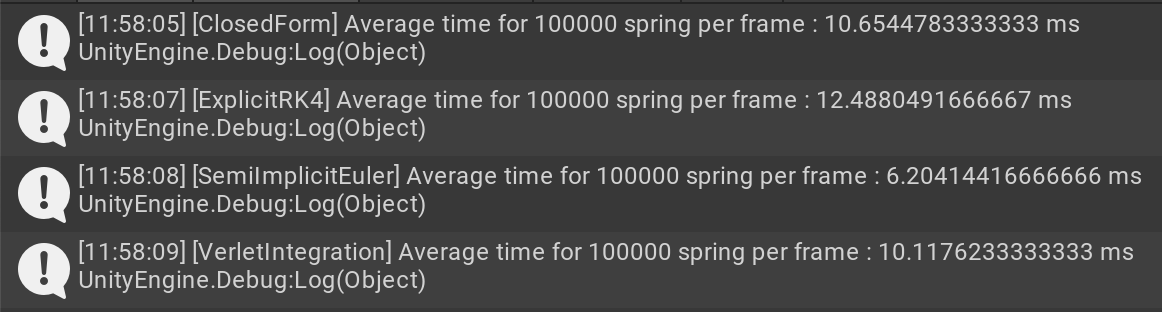
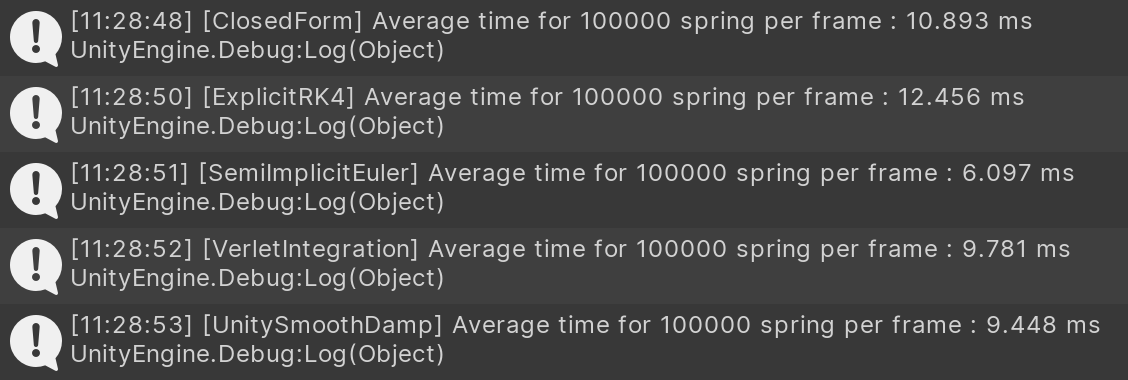
Add UnitySmoothDamp for comparison

Changed region(s): [[0.0, 0.0288, 0.9929, 0.9808]]

diff --git a/Tests/Editor/PerformanceTest.cs b/Tests/Editor/PerformanceTest.cs
@@ -1,5 +1,6 @@
 using NUnit.Framework;
 using System.Diagnostics;
+using UnityEngine;
 using Debug = UnityEngine.Debug;
 
 namespace UnitySpring.Tests
@@ -9,20 +10,24 @@ namespace UnitySpring.Tests
         const int Count = 100000;
 
         [Test]
-        public static void ClosedForm()
+        public static void _ClosedForm()
             => Benchmark(CreateSprings<ClosedForm.Spring>(), "ClosedForm");
 
         [Test]
-        public static void SemiImplicitEuler()
+        public static void _SemiImplicitEuler()
             => Benchmark(CreateSprings<SemiImplicitEuler.Spring>(), "SemiImplicitEuler");
 
         [Test]
-        public static void ExplicitRK4()
+        public static void _ExplicitRK4()
             => Benchmark(CreateSprings<ExplicitRK4.Spring>(), "ExplicitRK4");
 
         [Test]
-        public static void VerletIntegration()
+        public static void _VerletIntegration()
             => Benchmark(CreateSprings<VerletIntegration.Spring>(), "VerletIntegration");
+
+        [Test]
+        public static void UnitySmoothDamp()
+            => Benchmark(CreateSprings<UnitySmoothDamp>(), "UnitySmoothDamp");
 
         static void Benchmark(SpringBase[] springs, string name)
         {
@@ -36,7 +41,7 @@ namespace UnitySpring.Tests
                 count++;
             }
 
-            Debug.Log($"[{name}] Average time for {Count} spring per frame : {sum / count} ms");
+            Debug.Log($"[{name}] Average time for {Count} spring per frame : {(sum / count).ToString("0.000")} ms");
 
             double Step()
             {
@@ -60,7 +65,31 @@ namespace UnitySpring.Tests
 
         static double GetPreciseTime(Stopwatch sw)
         {
-            return 1000.0 * (double)sw.ElapsedTicks / Stopwatch.Frequency;
+            return 1000.0 * (double) sw.ElapsedTicks / Stopwatch.Frequency;
+        }
+    }
+
+    class UnitySmoothDamp : SpringBase
+    {
+        float smoothTime = 0.1f;
+        float maxSpeed = Mathf.Infinity;
+
+        public override void Reset()
+        {
+            currentValue = startValue;
+            currentVelocity = initialVelocity;
+        }
+
+        public override void UpdateEndValue(float value, float velocity)
+        {
+            endValue = value;
+            currentVelocity = velocity;
+        }
+
+        public override float Evaluate(float deltaTime)
+        {
+            currentValue = Mathf.SmoothDamp(currentValue, endValue, ref currentVelocity, smoothTime, maxSpeed, deltaTime);
+            return currentValue;
         }
     }
 }

diff --git a/README.md b/README.md
@@ -64,7 +64,7 @@ Visualizer:
 
 ![](./Documentation~/visualizer.gif)
 
-# Faq
+# FAQ
 
 ### Unity SmoothDamp
 
